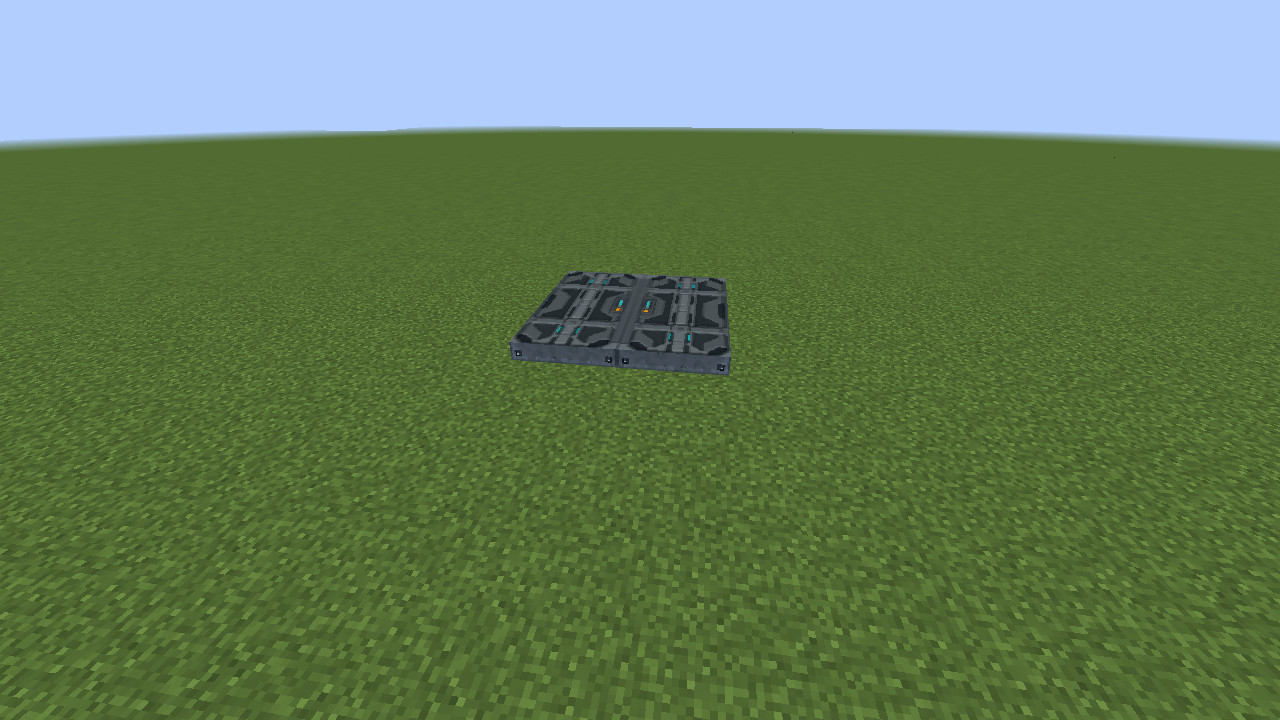
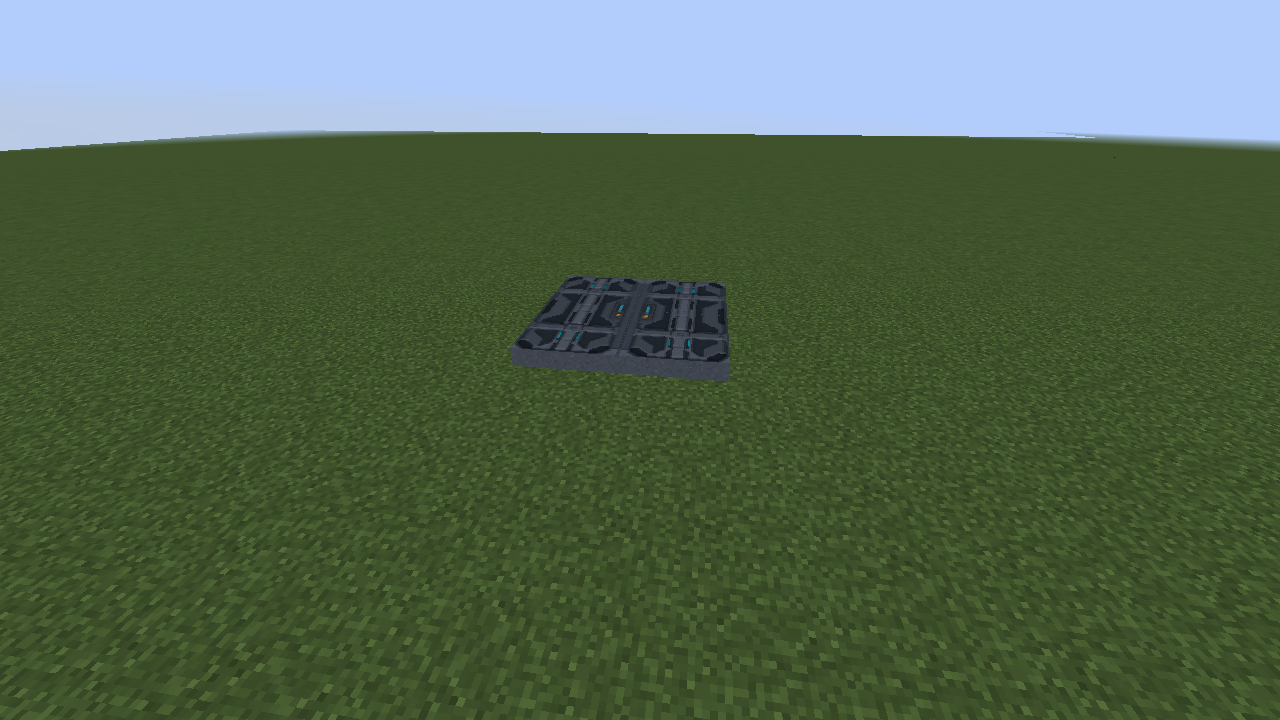
Hinge plain trapdoors against their support and refresh geometry examples

diff --git a/src/main/java/com/vandorlabs/client/OffsetTrapdoorRuntimeChecks.java b/src/main/java/com/vandorlabs/client/OffsetTrapdoorRuntimeChecks.java
@@ -55,6 +55,15 @@ final class OffsetTrapdoorRuntimeChecks {
             if(++scenario<16){stage=0;return false;}
             System.out.println("[vandorlabs][reprolab] offset-trapdoor-hitbox-runtime PASS (all hinges, both states, both movements, real aim/use input and client/server collision)");
             mc.getIntegratedServer().addScheduledTask(()->{
+                EntityPlayerMP placer=mc.getIntegratedServer().getPlayerList().getPlayerByUsername(mc.player.getName());
+                for(int i=0;i<4;i++)for(int height=0;height<2;height++) {
+                    EnumFacing side=EnumFacing.HORIZONTALS[i];BlockPos mount=pos.add(20+height*3,0,i*4);
+                    world.setBlockState(mount.offset(side.getOpposite()),net.minecraft.init.Blocks.STONE.getDefaultState(),3);
+                    BlockProgrammableTrapdoor block=(BlockProgrammableTrapdoor)com.vandorlabs.blocks.ModBlocks.PROGRAMMABLE_TRAPDOOR;
+                    net.minecraft.block.state.IBlockState state=block.getStateForPlacement(world,mount,side,.5F,height==0?.1F:.9F,.5F,0,placer);
+                    net.minecraft.item.ItemStack stack=new net.minecraft.item.ItemStack(block);
+                    if(!((net.minecraft.item.ItemBlock)stack.getItem()).placeBlockAt(stack,placer,world,mount,side,.5F,height==0?.1F:.9F,.5F,state))throw new IllegalStateException("live plain side placement failed");
+                }
                 for(int i=0;i<4;i++) {
                     BlockPos source=pos.add(8,0,i*4);EnumFacing facing=EnumFacing.HORIZONTALS[i];
                     TileEntityProgrammableTrapdoor first=TrapdoorGallery.place(world,source,false,0,0,i%2==0,facing);
@@ -80,6 +89,12 @@ final class OffsetTrapdoorRuntimeChecks {
                 TileEntityProgrammableTrapdoor leaf=(TileEntityProgrammableTrapdoor)world.getTileEntity(pos.add(8+member,0,i*4));
                 if(leaf==null || !leaf.isCover() || !leaf.canOffsetClosedLeaf() || leaf.isSliding()!=(i%2==0) || leaf.coverFacing()!=EnumFacing.HORIZONTALS[i].rotateY())throw new IllegalStateException("synchronized offset copy/neighbor hinge failed");
             }
+            for(World world:new World[]{mc.world,mc.getIntegratedServer().getWorld(0)})for(int i=0;i<4;i++)for(int height=0;height<2;height++) {
+                BlockPos mount=pos.add(20+height*3,0,i*4);
+                TileEntityProgrammableTrapdoor leaf=(TileEntityProgrammableTrapdoor)world.getTileEntity(mount);
+                if(leaf==null || leaf.getPosition()!=(height==0?0:2) || world.getBlockState(mount).getValue(BlockProgrammableTrapdoor.FACING)!=EnumFacing.HORIZONTALS[i].getOpposite())throw new IllegalStateException("plain side placement hinge does not face support");
+            }
+            System.out.println("[vandorlabs][reprolab] trapdoor-side-placement-runtime PASS (all four support faces, both heights, client/server)");
             System.out.println("[vandorlabs][reprolab] trapdoor-offset-copy-neighbor-runtime PASS (movement, closed leaf and hinge retained on client/server)");
             stage=3;return false;
         }

diff --git a/testclient/java/com/vandorlabs/client/TrapdoorChecks.java b/testclient/java/com/vandorlabs/client/TrapdoorChecks.java
@@ -136,7 +136,13 @@ final class TrapdoorChecks {
         for(EnumFacing side:EnumFacing.values())for(float hit:new float[]{.1F,.5F,.9F}) {
             NonRenderingChecks.MemoryWorld world=new NonRenderingChecks.MemoryWorld(false);
             BlockPos p=new BlockPos(10,100,10);ItemStack stack=new ItemStack(item);
-            require(item.placeBlockAt(stack,null,world,p,side,.5F,hit,.5F,block.getDefaultState()),"plain placement failed");
+            EntityPlayer placer=new EntityPlayer(world,new com.mojang.authlib.GameProfile(UUID.randomUUID(),"TrapdoorPlacement")) {
+                @Override public boolean isSpectator(){return false;}
+                @Override public boolean isCreative(){return true;}
+            };
+            IBlockState placedState=block.getStateForPlacement(world,p,side,.5F,hit,.5F,0,placer);
+            require(placedState.getValue(BlockTrapDoor.FACING)==(side.getAxis().isHorizontal()?side.getOpposite():placer.getHorizontalFacing().getOpposite()),"plain trapdoor hinge faces away from clicked support");
+            require(item.placeBlockAt(stack,placer,world,p,side,.5F,hit,.5F,placedState),"plain placement failed");
             int expected=side==EnumFacing.UP?0:side==EnumFacing.DOWN?2:hit<1/3F?0:hit>2/3F?2:1;
             require(((TileEntityProgrammableTrapdoor)world.getTileEntity(p)).getPosition()==expected,"click band lost");
             require(stack.getSubCompound("BlockEntityTag")==null,"placement changed held stack");

diff --git a/src/main/java/com/vandorlabs/blocks/BlockProgrammableTrapdoor.java b/src/main/java/com/vandorlabs/blocks/BlockProgrammableTrapdoor.java
@@ -28,7 +28,7 @@ public class BlockProgrammableTrapdoor extends BlockTrapDoor {
     @Override public TileEntity createTileEntity(World world,IBlockState state){return new TileEntityProgrammableTrapdoor();}
     @Override public EnumBlockRenderType getRenderType(IBlockState state){return EnumBlockRenderType.ENTITYBLOCK_ANIMATED;}
     @Override public IBlockState getStateForPlacement(World world,BlockPos pos,EnumFacing side,float x,float y,float z,int meta,EntityLivingBase placer) {
-        EnumFacing facing=side.getAxis().isHorizontal()?side:placer.getHorizontalFacing().getOpposite();
+        EnumFacing facing=side.getAxis().isHorizontal()?side.getOpposite():placer.getHorizontalFacing().getOpposite();
         DoorHalf half=side.getAxis().isHorizontal()?(y>.5F?DoorHalf.TOP:DoorHalf.BOTTOM)
                 :side==EnumFacing.UP?DoorHalf.BOTTOM:DoorHalf.TOP;
         return getDefaultState().withProperty(FACING,facing).withProperty(HALF,half)

diff --git a/docs/gallery/task-improvements.md b/docs/gallery/task-improvements.md
@@ -73,7 +73,7 @@ The diagonal dialog separates width and height, so Full/Half width updates a tal
 
 ## Motion clearance and next-block placement
 
-Rotating normal leaves keep their thickness inside the mounting cell when open. Sliding diagonal leaves lift clear of the continuation wall before moving sideways. Next block places the untriggered leaf across the neighboring cell; rotating then folds it upright into its own mount.
+Rotating normal leaves keep their thickness inside the mounting cell when open. Sliding diagonal leaves lift clear of the continuation wall before moving sideways. Next block places the untriggered leaf across the neighboring cell with a one-pixel overhang beyond its far edge; rotating then folds it upright into its own mount. Normal and diagonal leaf edges use the standard programmable door’s metal side artwork.
 
 | Rotating beside blocks | Sliding over a diagonal wall |
 | --- | --- |
@@ -82,6 +82,14 @@ Rotating normal leaves keep their thickness inside the mounting cell when open. 
 | Next-block leaf, closed | Next-block leaf, rotating open |
 | --- | --- |
 | ![Closed leaf covers the neighboring cell](../images/gallery/tasks/trapdoor-next-rotating-closed.png) | ![Rotated leaf folds back into its mounting cell](../images/gallery/tasks/trapdoor-next-rotating-open.png) |
+
+## Flush floor and ceiling mounts
+
+Closed Bottom and Top leaves sit flush visually against their support, with only a 1/64-pixel inset to prevent coplanar faces. Rotating leaves retain clearance from their supporting floor or ceiling throughout opening.
+
+| Floor mount | Ceiling mount |
+| --- | --- |
+| ![Closed trapdoor sits flush on a floor](../images/gallery/tasks/trapdoor-flush-floor.png) | ![Closed trapdoor sits flush beneath a ceiling](../images/gallery/tasks/trapdoor-flush-ceiling.png) |
 
 ## Next-block selection and joined-group protection
 

diff --git a/docs/gallery/programmable-trapdoor.md b/docs/gallery/programmable-trapdoor.md
@@ -6,7 +6,7 @@ with the Configurizer in either game mode, to choose the finish, movement,
 height, redstone trigger, and channel.
 
 **Rotating** swings the leaf 90 degrees around its facing edge. **Sliding**
-moves it 15 pixels sideways, leaving one pixel visible in its own block. Placement determines the facing; sliding always
+moves it 15 pixels sideways, leaving one pixel visible in its own block. Side placement hinges toward the clicked supporting block; floor and ceiling placement uses your horizontal facing. sliding always
 stays horizontal. Rotating leaves keep their full thickness at least one pixel inside the mounting cell at the hinge, with a tiny perimeter inset to avoid coplanar neighboring faces. Click the lower, middle, or upper third of a wall face to place a plain trapdoor at Bottom, Middle, or Top; floor and ceiling clicks choose Bottom and Top. Configured items retain their saved position. The model has no frame or hinge hardware.
 
 The leaf is 3px thick. **Bottom** spans approximately 0–3px above the block’s base,

diff --git a/CHANGELOG.md b/CHANGELOG.md
@@ -24,6 +24,8 @@ See the [illustrated programmable block improvements](docs/gallery/task-improvem
 
 ### Fixed
 
+- Plain side-mounted trapdoors hinge against the clicked supporting block instead of its opposite edge. Configured Next block items retain their explicit saved hinge.
+
 - Floor- and ceiling-mounted trapdoors sit flush visually, using a tiny coplanar-face inset instead of a one-pixel gap. Rotating leaves retain clearance from their support when open.
 
 - Next-block trapdoor leaves project one pixel beyond the covered cell’s far edge, with matching selection/collision and fully retracted sliding endpoints. Normal and diagonal trapdoor thin edges use the standard programmable door’s metal side texture, including Custom materials.

diff --git a/docs/DUPLIFIER.md b/docs/DUPLIFIER.md
@@ -67,8 +67,8 @@ platform can reject the change.
 Landing Gear supports independent **Gear Size**, **Gear Extension**, and
 **Gear Redstone Mode** switches, plus the shared redstone channel.
 
-Placement facing, physical position, live redstone signal, current door motion,
-and ownership are not stored. The item uses semantic setting keys rather than
+Ordinary placement facing, physical position, live redstone signal, current door motion,
+and ownership are not stored. The explicit Next block hinge direction is a configurable setting and can be copied. The item uses semantic setting keys rather than
 copying tile NBT, so existing saved-world field names and placement behavior
 remain intact.
 
